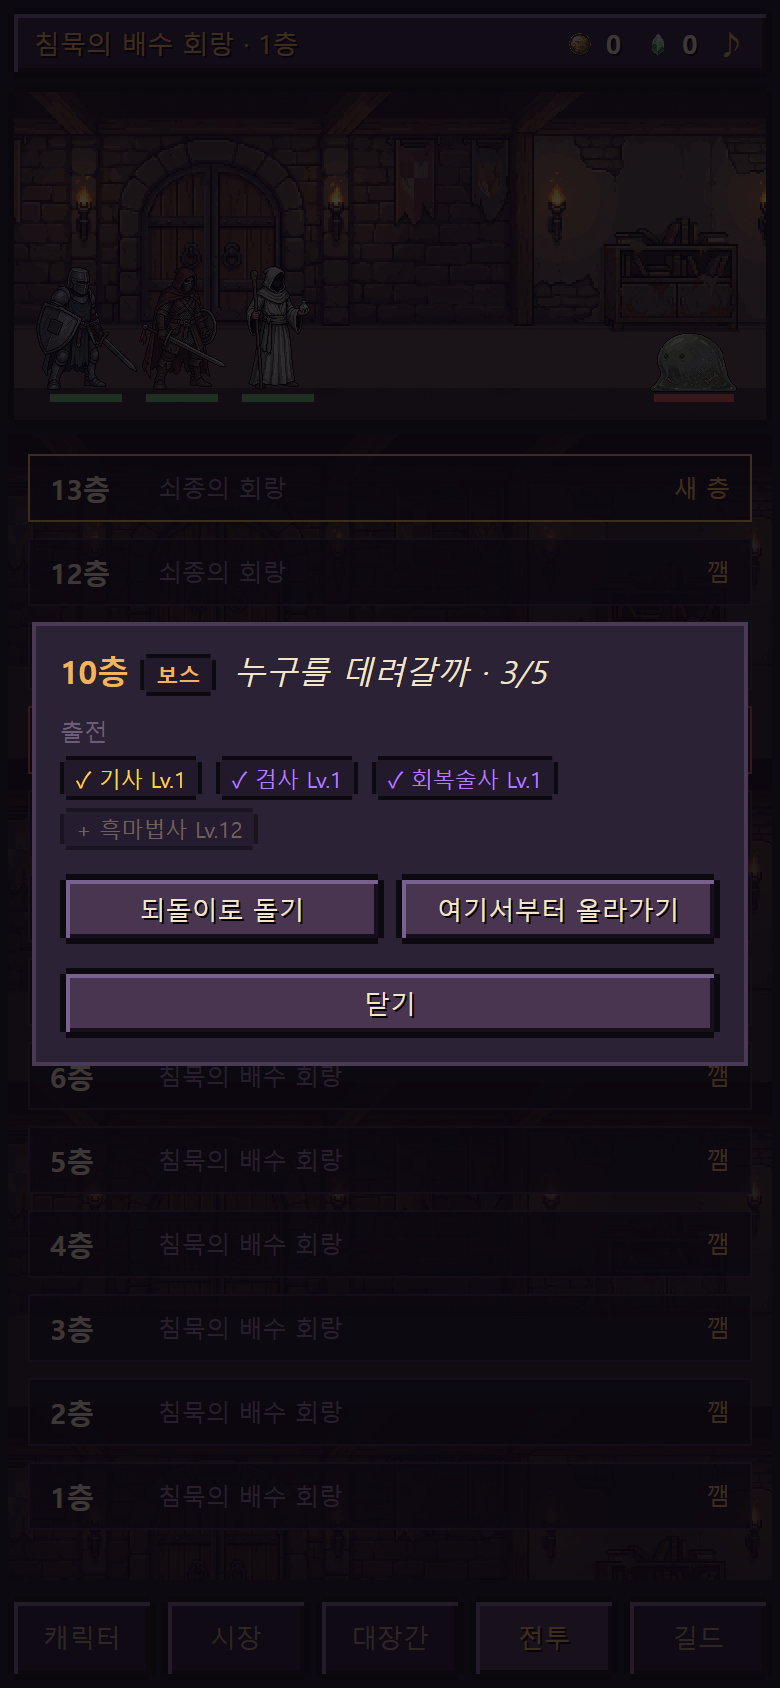
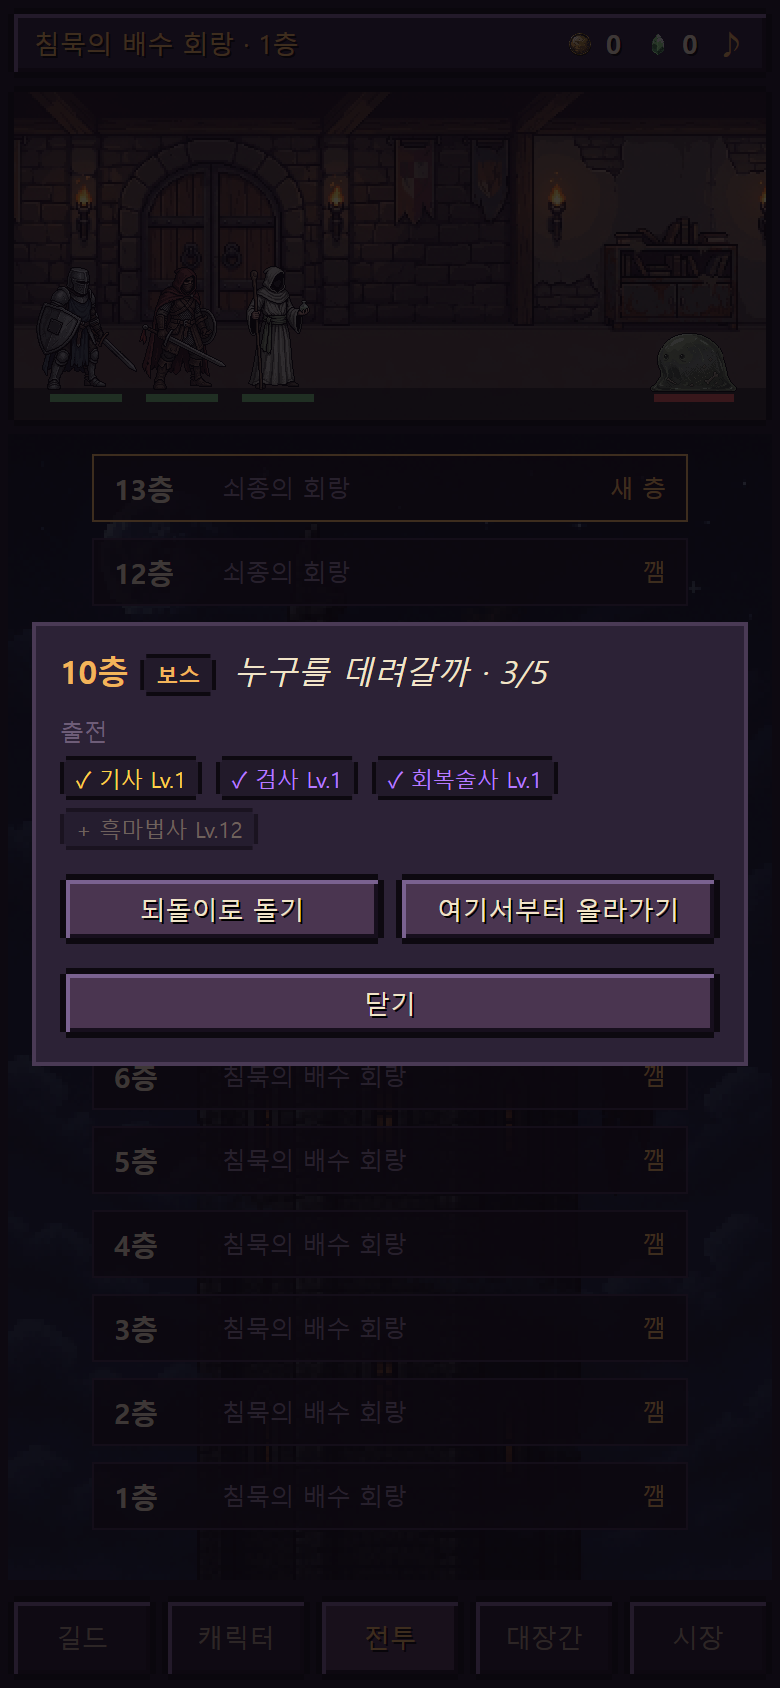
탑 그림을 지피티로 뽑아 맵에 세우고, 탭 순서를 바꾼다
- 제미나이 크레딧이 떨어져 못 뽑던 탑 기둥·꼭대기를 OpenAI gpt-image-2 로 뽑았다
  (engine/tools/ash_탑그림.mts, 1024×1536 → 1/4 로 줄여 도트 칸을 캐릭터와 맞춤).
- 이음새를 쟀다: 끝↔처음 색차 9.5 vs 같은 그림 이웃줄 6 — 이어 붙여도 티가 거의 안 난다.
- 맵 배경을 꼭대기 한 장 + 기둥 이어붙이기로. 폭은 기계 픽셀 정수배로 JS 가 정한다
  (100% 로 맡기면 3.04배 같은 값이 나와 어떤 도트는 3px, 어떤 도트는 4px 이 된다).
- 층 칸을 78% 로 좁혀 탑이 양옆으로 보이게 했다.
- 탭 순서: 길드 · 캐릭터 · 전투 · 대장간 · 시장 (사장님 10-09).

맵 시험 8/8 통과.

diff --git a/public/ash/index.html b/public/ash/index.html
@@ -67,11 +67,15 @@
   #맵.on{display:block}
   /* 맵이 떠 있을 땐 글 칸을 접는다 — 둘이 공간을 반씩 나눠 가져 맵이 8층쯤에서 잘렸다 */
   #맵.on ~ #log{display:none}
-  #맵 .탑{position:absolute;inset:0;background-repeat:repeat-y;background-position:center top;
-          background-size:100% auto;image-rendering:pixelated;opacity:.42}
+  /* 탑 그림: 꼭대기 한 장 + 그 아래로 기둥을 이어 붙인다. 크기는 JS가 정수배로 준다(도트가 뭉개진다) */
+  #맵 .탑{position:absolute;inset:0;background-image:url(art/tower-shaft.png);
+          background-repeat:repeat-y;image-rendering:pixelated;opacity:.52;overflow:hidden}
+  #맵 .꼭대기{display:block;margin:0 auto;image-rendering:pixelated}
   #맵 .속{position:relative;padding:10px 0}
-  #맵 .층칸{display:flex;align-items:center;gap:8px;margin:0 10px 8px;padding:7px 10px;
-            background:rgba(20,14,26,.74);border:1px solid #3a2c45;cursor:pointer}
+  #맵 .층들{position:relative}
+  /* 칸을 좁혀 탑이 양옆으로 보이게 한다 — 꽉 채우면 탑 그림이 벽지가 되고 그냥 목록으로 읽힌다 */
+  #맵 .층칸{display:flex;align-items:center;gap:8px;width:78%;margin:0 auto 8px;padding:7px 10px;
+            background:rgba(20,14,26,.78);border:1px solid #3a2c45;cursor:pointer}
   #맵 .층칸.새{border-color:var(--금)}
   #맵 .층칸.보스{border-color:#d9534f}
   #맵 .층칸 b{color:var(--글);font-size:14px;min-width:46px}
@@ -166,12 +170,12 @@
   <div id="panel"></div>
 
   <div id="tabs">
-    <!-- 10-07 사장님 순서: 캐릭터 · 시장 · 대장간 · 전투 · 길드 -->
-    <div class="tab" data-t="crew">캐릭터</div>
-    <div class="tab" data-t="shop">시장</div>
-    <div class="tab" data-t="forge">대장간</div>
-    <div class="tab" data-t="run">전투</div>
+    <!-- 10-09 사장님 순서: 길드 · 캐릭터 · 전투 · 대장간 · 시장 (10-07 순서에서 바뀜) -->
     <div class="tab home on" data-t="hall">길드</div>
+    <div class="tab" data-t="crew">캐릭터</div>
+    <div class="tab" data-t="run">전투</div>
+    <div class="tab" data-t="forge">대장간</div>
+    <div class="tab" data-t="shop">시장</div>
   </div>
 </div>
 
@@ -881,16 +885,21 @@ function 맵그리기(){
   if (S.진행) return;
   const 끝 = Math.min(100, S.최고층 + 1);
   const 층들 = Array.from({ length: 끝 }, (_, i) => 끝 - i);          // 위가 높은 층
-  // 10-09: 탑 기둥 그림을 따로 뽑으려 했으나 제미나이 크레딧이 떨어졌다.
-  // 돈 안 쓰고 — 이미 있는 **탑 복도**(전투 배경)를 세로로 이어 붙인다. 층마다 복도가 보여 오히려 맞는다.
-  칸.innerHTML = `<div class="탑" style="background-image:url(art/tower.png)"></div>
-    <div class="속">${층들.map((f) => {
+  // 10-09 지피티로 뽑은 탑 그림(256×384 두 장). **도트 한 칸이 기계 픽셀 정수배**가 되게 폭을 정한다 —
+  // 폭을 100% 로 맡기면 3.04배 같은 값이 나와 어떤 칸은 3px, 어떤 칸은 4px 이 돼 뭉개진다(전투 배경과 같은 규칙).
+  const d = devicePixelRatio || 1, 바탕폭 = 256, 바탕높 = 384;
+  const k = Math.max(1, Math.round((칸.clientWidth || 360) * d / 바탕폭));
+  const 폭 = 바탕폭 * k / d, 꼭 = 바탕높 * k / d;
+  칸.innerHTML = `<div class="속" style="min-height:${Math.round(꼭 + 30)}px">
+    <div class="탑" style="background-size:${폭}px auto;background-position:center ${꼭}px">
+      <img class="꼭대기" src="art/tower-top.png" style="width:${폭}px" alt=""></div>
+    <div class="층들">${층들.map((f) => {
       const 보스 = f % 10 === 0, 새층 = f > S.최고층;
       return `<div class="층칸${보스 ? " 보스" : ""}${새층 ? " 새" : ""}" data-f="${f}">
         <b>${f}층</b>
         <i>${보스 ? 일구간.보스.이름 : 구간이름[Math.floor((f - 1)/10) % 10]}</i>
         <span class="표">${새층 ? "새 층" : "깸"}</span></div>`;
-    }).join("")}</div>`;
+    }).join("")}</div></div>`;
   칸.querySelectorAll("[data-f]").forEach((b) => b.onclick = () => 출발창(Number(b.dataset.f)));
 }
 
